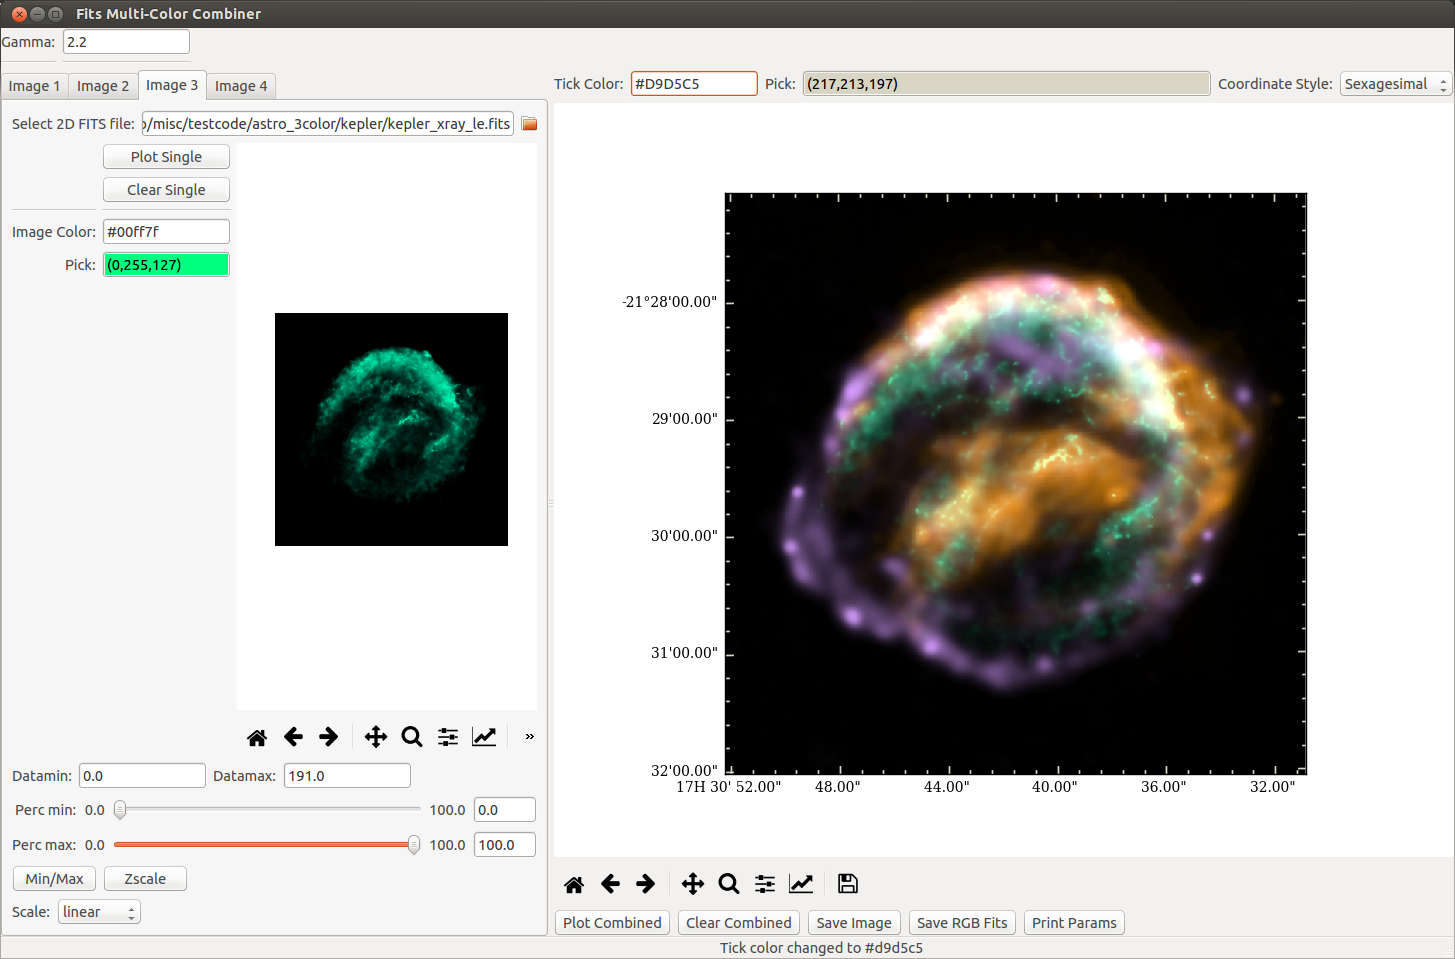
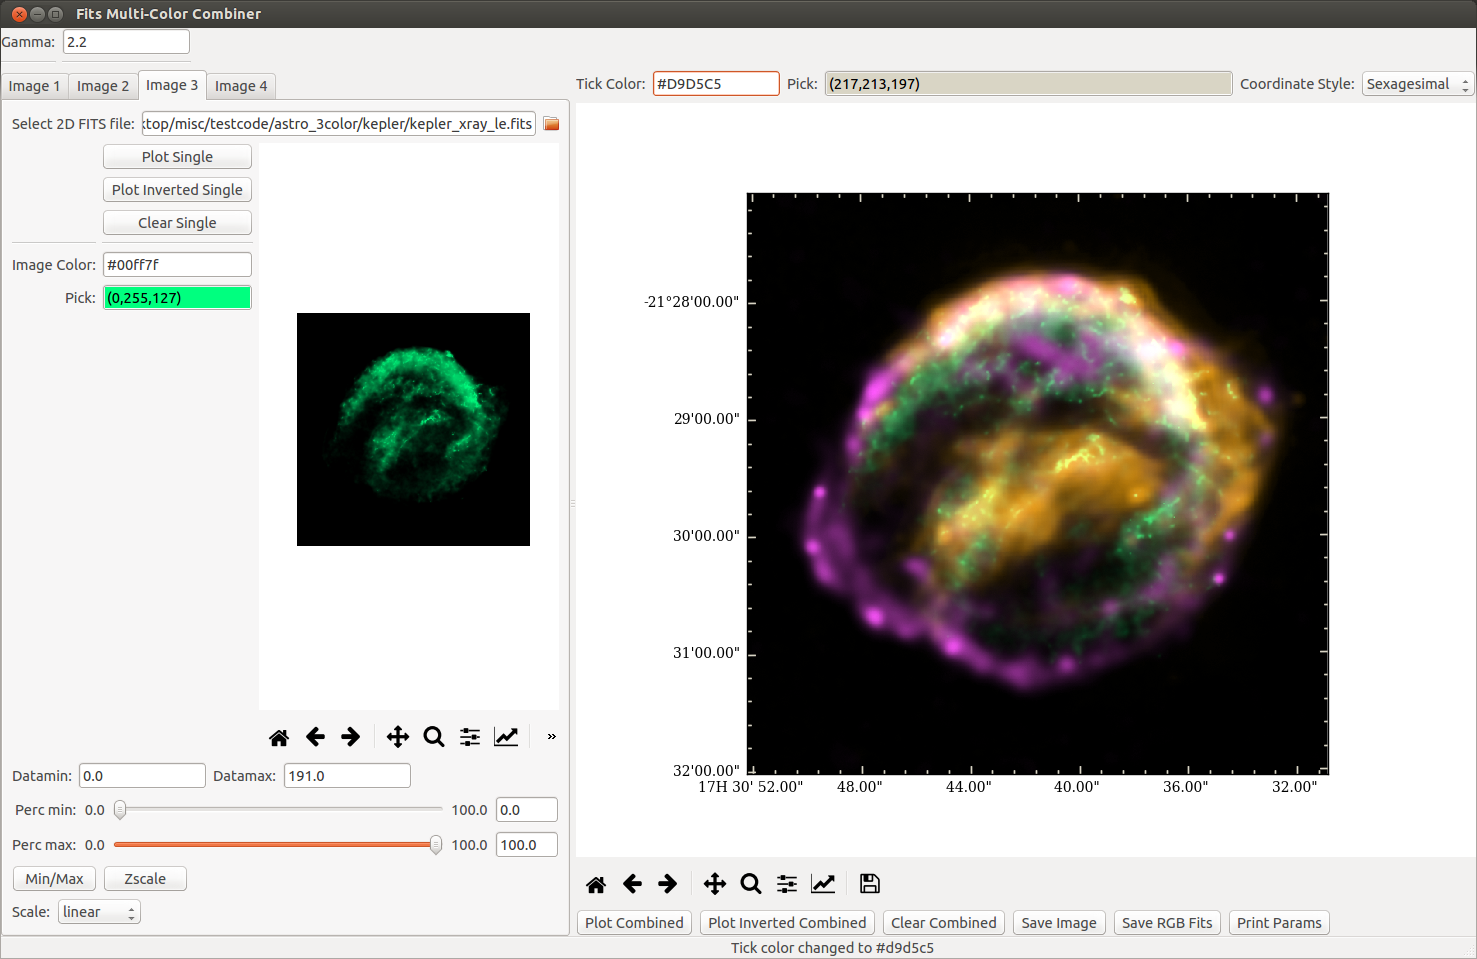
v1.1
'Inverse' buttons implemented.  

Also, fixed a bug that occurred when pure colors were used (when a channel had only zeros).  Addition of np.nan_to_num() to rescale_intensity() fiexed it.

diff --git a/multicolorfits_gui.py b/multicolorfits_gui.py
@@ -132,6 +132,14 @@ def hex_to_hsv(hexstring):
     h = (h/6.0) % 1.0
     return h, s, v #All in fractions in range [0...1]
 
+def hexinv(hexstring):
+    #convenience function to calculate the inverse color (opposite on the color wheel)
+    if hexstring[0]=='#': hexstring=hexstring.lstrip('#')
+    hexcolor=int(hexstring,16)
+    color_comp=0xFFFFFF^hexcolor
+    hexcolor_comp="#%06X"%color_comp
+    return hexcolor_comp
+
 def colorize_image(image, colorvals, colorintype='hsv',dtype=np.float64,gammacorr_color=1):
     ### Add color of the given hue to an RGB greyscale image.
     #colorintype='hsv' [0..1,0..1,0..1],  'rgb' [0..255,0..255,0..255], or 'hex' '#XXXXXX'
@@ -156,18 +164,12 @@ def combine_multicolor(im_list_colorized,gamma=2.2,inverse=False):
     #im_list_colorized: list of colorized images.  e.g., [halpha_purple,co21_orange,sio54_teal]
     #gamma = value used for gamma correction ^1/gamma [default=2.2].  If inverse=True, will automatically use ^gamma instead.
     #inverse=True  will invert the scale so that white is the background
-    if inverse==True:
-        im_list_inv=[adjust_sigmoid(frame,inv=True,gain=1.,cutoff=0.) for frame in im_list_colorized]
-        combined_RGB=LinearStretch()(np.nansum(im_list_inv,axis=0))
-        #combined_RGB=imscale.linear(np.nansum(im_list_inv,axis=0))
-    else: combined_RGB=LinearStretch()(np.nansum(im_list_colorized,axis=0))
-    #else: combined_RGB=imscale.linear(np.nansum(im_list_colorized,axis=0))
+    combined_RGB=LinearStretch()(np.nansum(im_list_colorized,axis=0))
     RGB_maxints=tuple(np.nanmax(combined_RGB[:,:,i]) for i in [0,1,2])
     for i in [0,1,2]: 
-        combined_RGB[:,:,i]=rescale_intensity(combined_RGB[:,:,i], out_range=(0, combined_RGB[:,:,i].max()/np.max(RGB_maxints) ));
-        #combined_RGB[:,:,i]=rescale_intensity(combined_RGB[:,:,i], out_range=(0, RGB_maxints[i] ));
-    if inverse==True: combined_RGB**=gamma #gamma correction
-    else: combined_RGB**=(1./gamma) #gamma correction
+        combined_RGB[:,:,i]=np.nan_to_num(rescale_intensity(combined_RGB[:,:,i], out_range=(0, combined_RGB[:,:,i].max()/np.max(RGB_maxints) )));
+    combined_RGB=LinearStretch()(combined_RGB**(1./gamma)) #gamma correction
+    if inverse==True: combined_RGB=1.-combined_RGB #gamma correction
     return combined_RGB
 
 class _MPLFigureEditor(Editor):
@@ -234,6 +236,7 @@ class ControlPanel(HasTraits):
     #plotbeam_button=Button('Add Beam (FWHM)')
     
     plotbutton_individual = Button(u"Plot Single")
+    plotbutton_inverted_individual = Button(u"Plot Inverted Single")
     clearbutton_individual = Button(u"Clear Single")
     
     status_string_left=Str('')
@@ -264,6 +267,7 @@ class ControlPanel(HasTraits):
             HGroup(
               VGroup(
                      Item('plotbutton_individual', tooltip=u"Plot the single image",show_label=False),
+                     Item('plotbutton_inverted_individual', tooltip=u"Plot the single inverted image",show_label=False),
                      Item('clearbutton_individual', tooltip=u"Clear the single image",show_label=False),
                      Item('_'),
                      
@@ -355,8 +359,11 @@ class ControlPanel(HasTraits):
             except: self.status_string_right = "Color name %s not recognized.  Must be standard mpl.colors string, float[0..1] or #hex string"%(self.imagecolor) 
         try: self.imagecolor_picker=hex_to_rgb(to_hex(self.imagecolor)) #update the picker color...
         except: pass
-        self.image_colorRGB=colorize_image(self.image_greyRGB,self.imagecolor,colorintype='hex')
-        self.image_axesimage.set_data(self.image_colorRGB**(1./self.gamma))
+        ### self.image_greyRGB and self.image_colorRGB may not yet be instantiated if the color is changed before clicking 'plot'
+        try: self.image_colorRGB=colorize_image(self.image_greyRGB,self.imagecolor,colorintype='hex',gammacorr_color=self.gamma)
+        except: pass
+        try: self.image_axesimage.set_data(self.image_colorRGB**(1./self.gamma))
+        except: pass
         self.in_use=True
         self.image_figure.canvas.draw()
     
@@ -373,7 +380,7 @@ class ControlPanel(HasTraits):
         self.datamin = np.nanpercentile(self.data,self.perc_min)
         self.data_scaled=(scaling_fns[self.image_scale]() + ManualInterval(vmin=self.datamin,vmax=self.datamax))(self.data)
         self.image_greyRGB=ski_color.gray2rgb(adjust_gamma(self.data_scaled,self.gamma))
-        self.image_colorRGB=colorize_image(self.image_greyRGB,self.imagecolor,colorintype='hex')
+        self.image_colorRGB=colorize_image(self.image_greyRGB,self.imagecolor,colorintype='hex',gammacorr_color=self.gamma)
         self.image_axesimage.set_data(self.image_colorRGB**(1./self.gamma))
         self.image_figure.canvas.draw()
         self.status_string_right = "Updated scale using percentiles"
@@ -383,7 +390,7 @@ class ControlPanel(HasTraits):
         self.datamax = np.nanpercentile(self.data,self.perc_max)
         self.data_scaled=(scaling_fns[self.image_scale]() + ManualInterval(vmin=self.datamin,vmax=self.datamax))(self.data)
         self.image_greyRGB=ski_color.gray2rgb(adjust_gamma(self.data_scaled,self.gamma))
-        self.image_colorRGB=colorize_image(self.image_greyRGB,self.imagecolor,colorintype='hex')
+        self.image_colorRGB=colorize_image(self.image_greyRGB,self.imagecolor,colorintype='hex',gammacorr_color=self.gamma)
         self.image_axesimage.set_data(self.image_colorRGB**(1./self.gamma))
         self.image_figure.canvas.draw()
         self.status_string_right = "Updated scale using percentiles"
@@ -405,7 +412,7 @@ class ControlPanel(HasTraits):
         self.data_scaled=(scaling_fns[self.image_scale]() + ManualInterval(vmin=self.datamin,vmax=self.datamax))(self.data)
         #*** Instead, should I just integrate my imscale class here instead of astropy? ...
         self.image_greyRGB=ski_color.gray2rgb(adjust_gamma(self.data_scaled,self.gamma))
-        self.image_colorRGB=colorize_image(self.image_greyRGB,self.imagecolor,colorintype='hex')
+        self.image_colorRGB=colorize_image(self.image_greyRGB,self.imagecolor,colorintype='hex',gammacorr_color=self.gamma)
         
         #self.image_axesimage.norm=self.norm
         ##self.cbar.norm=self.norm
@@ -459,7 +466,7 @@ class ControlPanel(HasTraits):
         self.data_scaled=(scaling_fns[self.image_scale]() + ManualInterval(vmin=self.datamin,vmax=self.datamax))(self.data)
         #Convert scale[0,1] image to greyscale RGB image
         self.image_greyRGB=ski_color.gray2rgb(adjust_gamma(self.data_scaled,self.gamma))
-        self.image_colorRGB=colorize_image(self.image_greyRGB,self.imagecolor,colorintype='hex')
+        self.image_colorRGB=colorize_image(self.image_greyRGB,self.imagecolor,colorintype='hex',gammacorr_color=self.gamma)
         self.image_axesimage.set_data(self.image_colorRGB**(1./self.gamma))
         ###Using this set instead properly updates the axes labels to WCS, but the home zoom button won't work
         #self.image_figure.clf()
@@ -475,6 +482,20 @@ class ControlPanel(HasTraits):
         self.in_use=True
         
         #self.update_radecpars()
+        self.image_figure.canvas.draw()
+        self.status_string_right = "Plot updated"
+
+    def _plotbutton_inverted_individual_fired(self):
+        try: self.data
+        except: self.status_string_right = "No fits file loaded yet!"; return
+        self.data_scaled=(scaling_fns[self.image_scale]() + ManualInterval(vmin=self.datamin,vmax=self.datamax))(self.data)
+        self.image_greyRGB=ski_color.gray2rgb(adjust_gamma(self.data_scaled,self.gamma))
+        self.image_colorRGB=colorize_image(self.image_greyRGB,hexinv(self.imagecolor),colorintype='hex',gammacorr_color=self.gamma)
+        self.image_axesimage.set_data(1.-self.image_colorRGB**(1./2.2)) 
+        self.image_axesimage.set_data(combine_multicolor([self.image_colorRGB,],gamma=self.gamma,inverse=True))  
+        self.perc_min=np.round(percentileofscore(self.data.ravel(),self.datamin,kind='strict'),2)
+        self.perc_max=np.round(percentileofscore(self.data.ravel(),self.datamax,kind='strict'),2)
+        self.in_use=True
         self.image_figure.canvas.draw()
         self.status_string_right = "Plot updated"
     
@@ -591,6 +612,7 @@ class multicolorfits_viewer(HasTraits):
     sexdec=Enum('Sexagesimal','Decimal')
     
     plotbutton_combined = Button(u"Plot Combined")
+    plotbutton_inverted_combined = Button(u"Plot Inverted Combined")
     clearbutton_combined = Button(u"Clear Combined")
     save_the_image = Button(u"Save Image")
     save_the_fits = Button(u"Save RGB Fits")
@@ -651,6 +673,7 @@ class multicolorfits_viewer(HasTraits):
                   HGroup(
                     
                     Item('plotbutton_combined', tooltip=u"Plot the image",show_label=False),
+                    Item('plotbutton_inverted_combined', tooltip=u"Plot the inverted image",show_label=False),
                     Item('clearbutton_combined',tooltip=u'Clear the combined figure',show_label=False),
                     Item("save_the_image", tooltip=u"Save current image. Mileage may vary...",show_label=False),
                     Item("save_the_fits", tooltip=u"Save RGB frames as single fits file with header.",show_label=False),
@@ -759,6 +782,19 @@ class multicolorfits_viewer(HasTraits):
         self.figure_combined.canvas.draw()
         self.status_string_right = "Plot updated"
     
+    def _plotbutton_inverted_combined_fired(self):
+        try: self.panel1.data
+        except: self.status_string_right = "No fits file loaded yet!"; return
+        self.wcs=WCS(self.panel1.hdr)
+        self.hdr=self.panel1.hdr
+        self.combined_RGB=combine_multicolor( [pan.image_colorRGB for pan in [self.panel1,self.panel2,self.panel3,self.panel4] if pan.in_use==True], gamma=self.gamma, inverse=True)
+        self.figure_combined.clf()
+        self.image_axes = self.figure_combined.add_subplot(111,aspect=1,projection=self.wcs)
+        self.image_axesimage = self.image_axes.imshow(self.combined_RGB, origin='lower',interpolation='nearest')
+        self.update_radecpars()
+        self.figure_combined.canvas.draw()
+        self.status_string_right = "Plot updated"
+        
     def _clearbutton_combined_fired(self): 
         try: del self.combined_RGB #If clear already pressed once, data will already have been deleted...
         except: pass
@@ -846,7 +882,6 @@ if __name__ == '__main__':
 #* Put fields for including titles - overall title on main image, colored interior titles for individual images.
 #* streamline the circular dependencies (datamin/datamax and perc_min/perc_max)
 #* incorporate ability to regrid the images -- OR new version that loads in data arrays that haven't yet been saved to .fits
-#* Inverse button on right panel that makes inverse color (would auto apply to each panel as well)
 #* update manual plotting  param printout button 
 
 

diff --git a/README.md b/README.md
@@ -1,8 +1,10 @@
 multicolorfits -- a GUI tool to colorize and combine multiple fits images for making visually aesthetic scientific plots
 
-version 1.0
+version 1.1
 
 Sharing/Customization: Please, play around!  (MIT License)
+
+If you find this useful for your work, giving me (Phil Cigan) a shout out in your acknowledgements would be nice.  
 
 
 
@@ -14,7 +16,7 @@ Sharing/Customization: Please, play around!  (MIT License)
 # Dependencies
 
 * numpy
-* matplotlib
+* matplotlib (>= 2.0)
 * astropy
 * scipy
 * pyface
@@ -76,7 +78,7 @@ When the viewer appears:
 * Save image (.png, .jpg, .pdf...)
 * Save fits file with RGB channels
 * Print out plot/scale parameters used to the terminal, for use with custom plot commands
-
+* Can make 'inverse' RGB plots (must click 'Plot Inverted Single' for each component before clicking 'Plot Inverted Combined')
 
 
 
@@ -89,7 +91,7 @@ When the viewer appears:
 
 
 I developed this tool for a variety of reasons.  
-* I was sick of how long it took to get appropriate stretch levels, etc. for files for use in python plotting scripts
+* I was sick of how long it took to manually get appropriate stretch levels, etc. for files for use in python plotting scripts
 * It's possible to do this kind of thing with e.g., Photoshop or GIMP, but perhaps want a method for doing things __programmatically__
 * I wanted a way to colorize images while retaining WCS info -- for plotting coordinates on the axes
 * I wanted to expand beyong just the simple pure red + pure green + pure blue combination.  Sometimes these colors can make for odd results (to quote a collaborator: "That's weird, stars shouldn't look green...")
@@ -143,13 +145,14 @@ Other reasons you may not be satisfied with a simple pure RGB cube:
 
 # Considerations/Caveats/Limitations
 
-- For sequential combinations of physical filters/bands (e.g., [G,R,I] images, [J,H,K], etc. ) Works best when your color choices have similar luminance (mixing light and dark colors can do weird things)
-- certain color combos can lead to confusion (for example: red+blue adds to purple, so maybe don't choose red+purple+blue for the hues of your component frames)
+- For sequential combinations of physical filters/bands (e.g., [G,R,I] images, [J,H,K], etc. ), color combos similar to standard R,G,B (such as red+yellow+blue) will usually give the most 'natural'-looking results.  
+- Things tend to work best when your color choices have similar luminance (mixing light and dark colors can do weird things)
+- Certain color combos can lead to confusion (for example: red+blue adds to purple, so maybe don't choose red+purple+blue for the hues of your component frames)
 - The RGB color gamut is more limited than other colorspaces such as, e.g., CIE LAB, so you may not be able to get some specific colors you want
 - I haven't completely finished developing the 'inverted' (white background) RGB feature, so it doesn't behave 100% as expected
 - What you see on the screen will not likely appear the same way on printed paper -- need to convert RGB to CMYK for that.
 - Currently all input files must have same projetion/pixel grid -- do all your reprojection before loading them.  Astropy and the reproject package are your friends for that.
-- This has not yet been optimized for speed.  In particular, it can be quite slow at interactive level adjustment for large files.  This could certainly be improved in future versions.
+- This has not been optimized for speed.  In particular, it can be quite slow at interactive level adjustment for large files.  This could certainly be improved in future versions.
 
 
 
